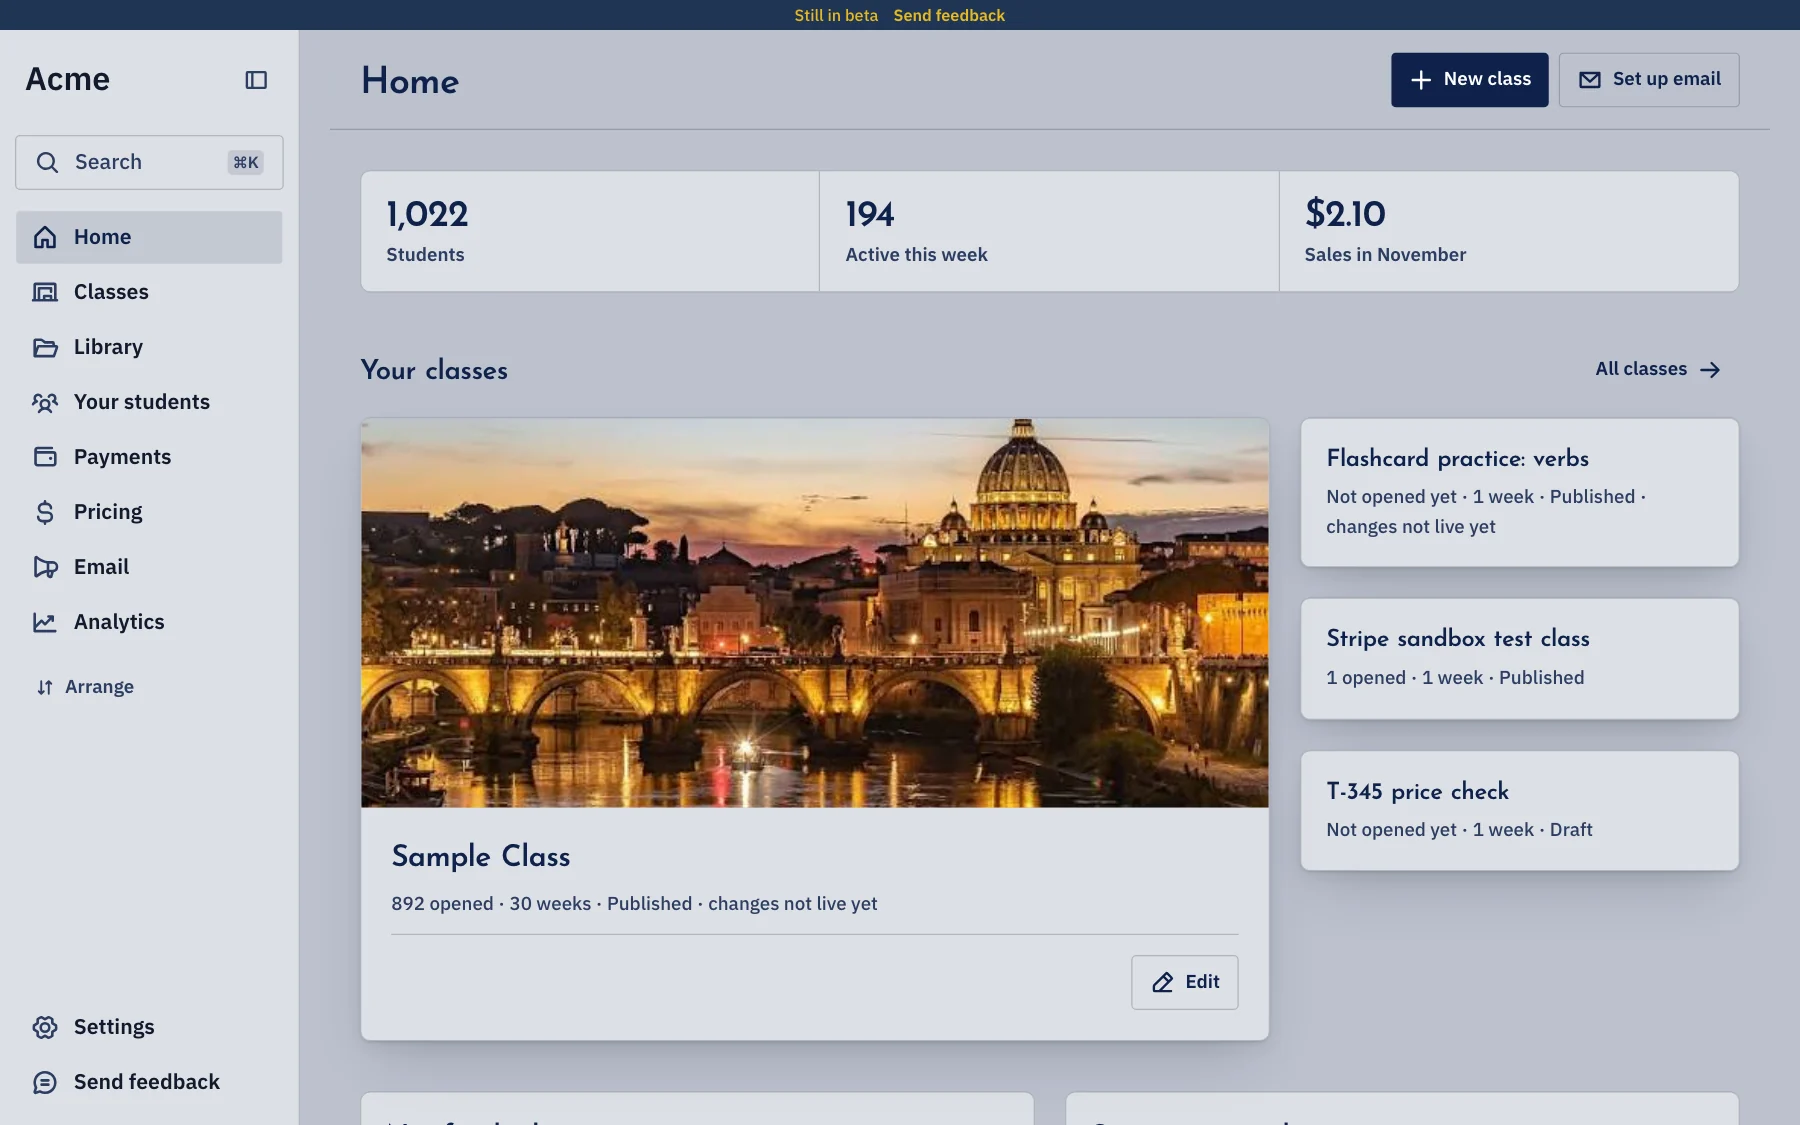
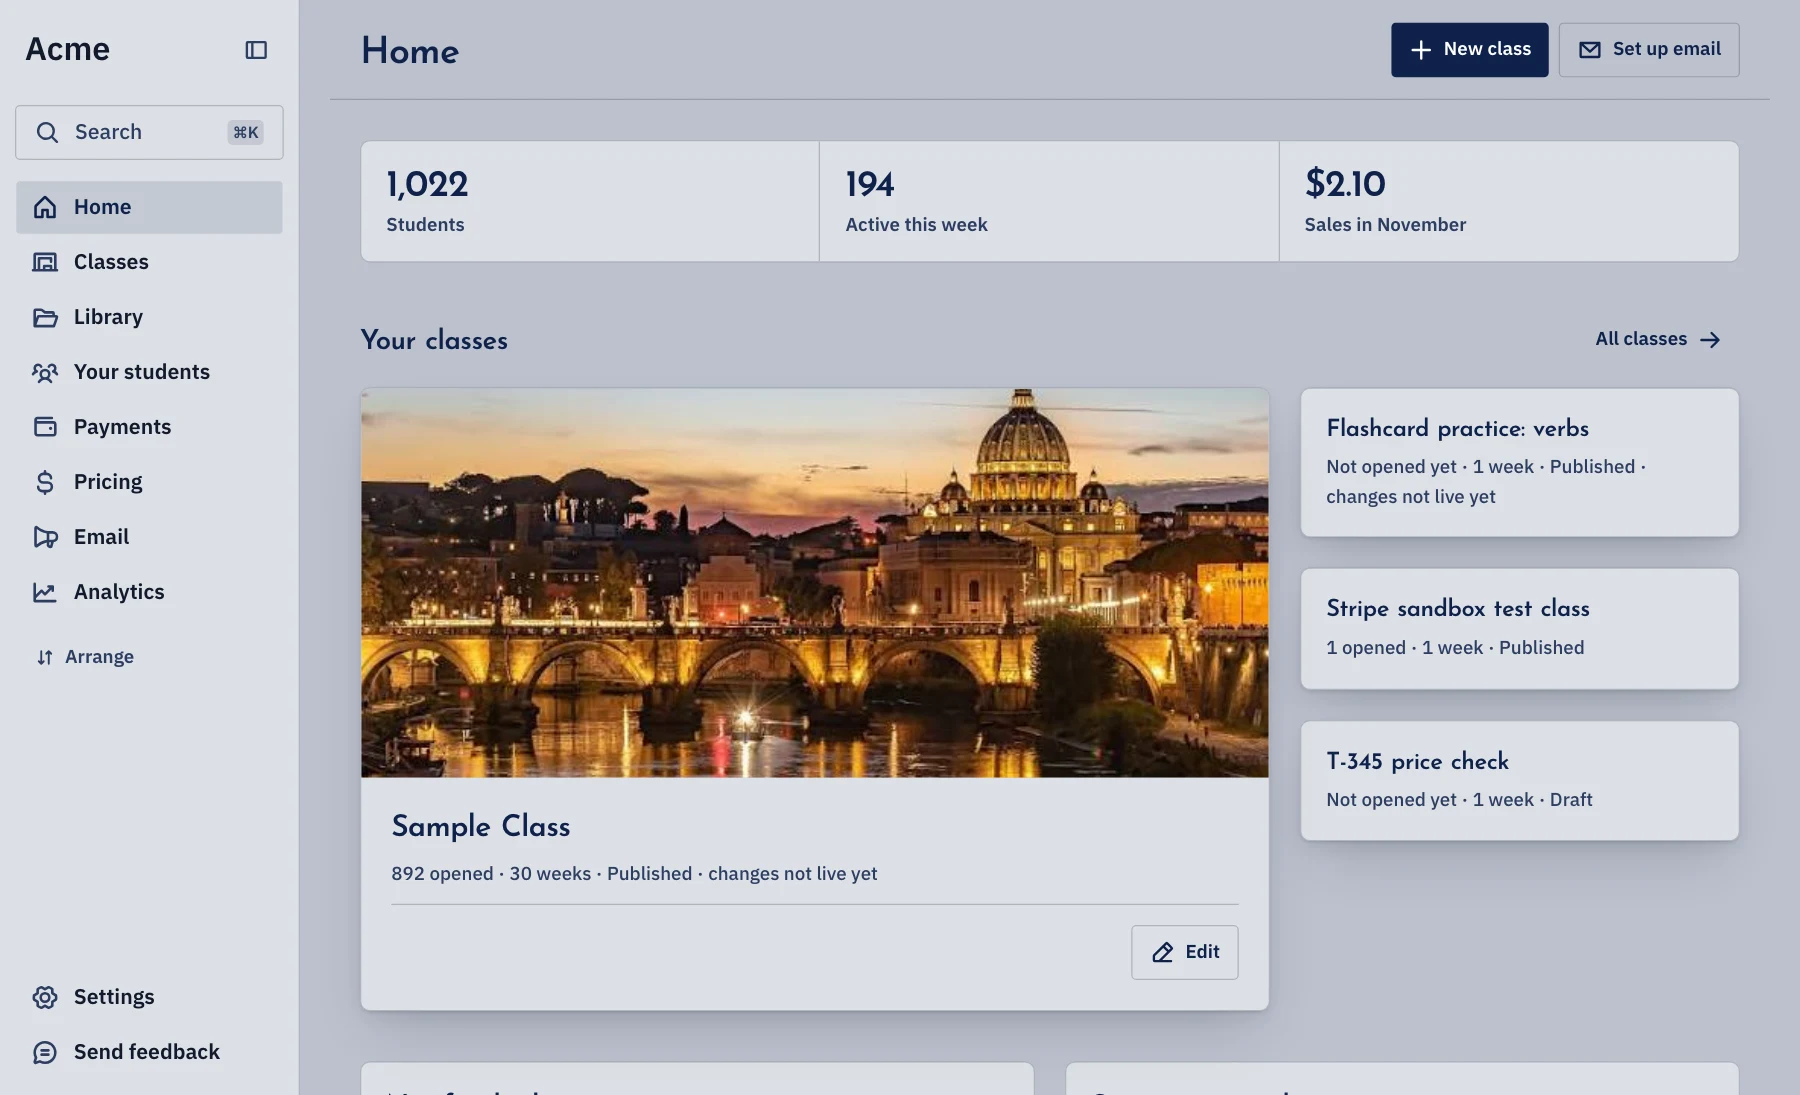
Hero screenshot without the app's beta strip
The Farzana Home capture in the Mac window had the test site's "Still in beta" bar across its top. Cropped it off (image is now 1800 x 1095) so the window shows only the product.

diff --git a/src/lib/work.ts b/src/lib/work.ts
@@ -17,7 +17,7 @@ export type Shot = { src: string; alt: string; w: number; h: number }
 
 export const SHOTS = {
   /* The home page hero (Nov 2026 capture): a school's Home today. */
-  classroomHome: { src: '/work/farzana-classroom-home.webp', alt: 'Farzana Classroom, a school’s Home: 1,022 students, 194 active this week, and its classes, led by one with a photo of Rome at dusk', w: 1800, h: 1125 },
+  classroomHome: { src: '/work/farzana-classroom-home.webp', alt: 'Farzana Classroom, a school’s Home: 1,022 students, 194 active this week, and its classes, led by one with a photo of Rome at dusk', w: 1800, h: 1095 },
   farzanaHome: { src: '/work/farzana-home.jpg', alt: 'Farzana Classroom, a demo school’s Home: an AI assistant, 248 students, 131 active this week, and its classes', w: 1800, h: 1125 },
   farzanaHomePhone: { src: '/work/farzana-home-phone.jpg', alt: 'The same school’s Home on a phone', w: 780, h: 1688 },
   farzanaStudents: { src: '/work/farzana-students.jpg', alt: 'Farzana Classroom, a demo school’s student list, with search and filters', w: 1800, h: 1125 },
